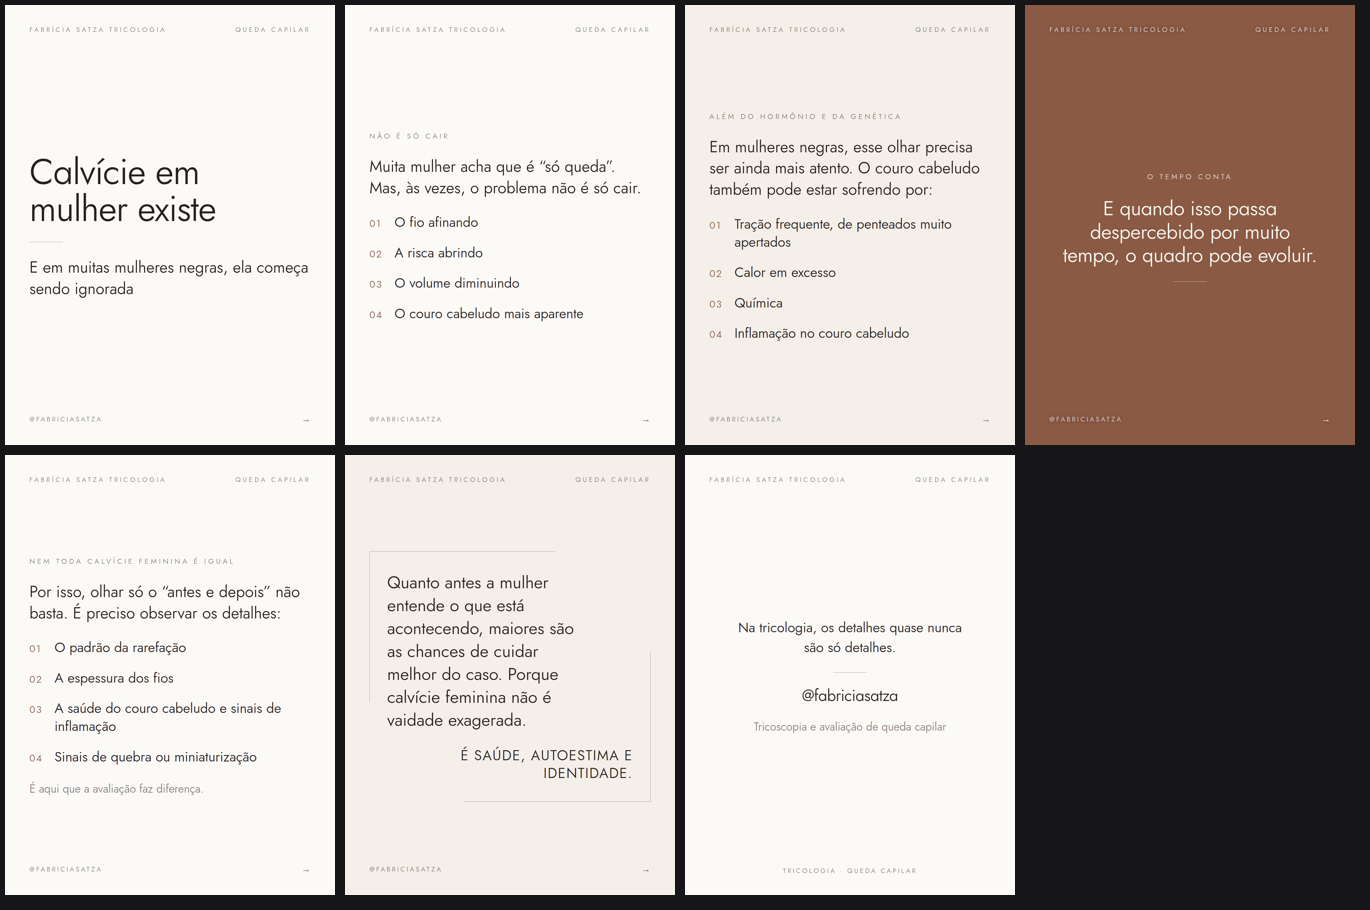
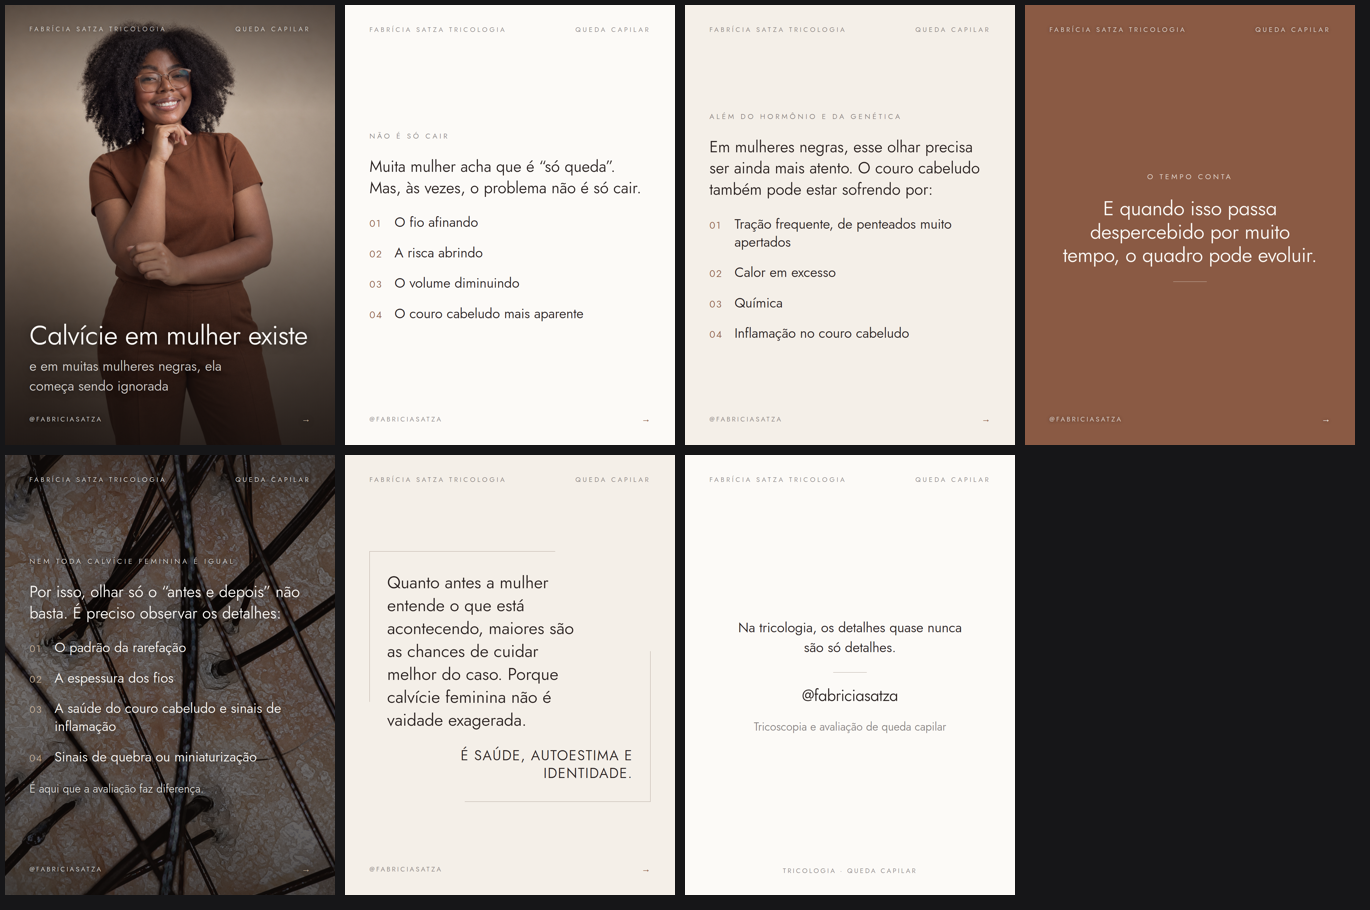
Tricoscopia no fundo do slide 05, e o bloco de foto ganha modo "slide inteiro"
O bloco sobre-foto nasceu para UMA frase ancorada no rodape. Com o slide
inteiro sobre a imagem — rotulo, abertura, lista numerada, nota — tres
coisas quebravam ao mesmo tempo: o corpo continuava colado embaixo, e
rotulo, texto pequeno e numero da lista seguiam nas cores de fundo claro,
invisiveis sobre a foto. Entra .corpo.cheio e as tres correcoes de cor em
blocos.css, com o numero em champagne, que e o acento das superficies
escuras.

Contraste medido renderizando o fundo SEM texto (medir com o texto na frente
mede branco contra branco). Em veu .54 o rotulo de 24px dava 3,68:1. Veu a
.60 no meio e secundarios a .90 levam tudo ao minimo: cabecalho 6,66,
rotulo 4,77, abertura 5,45, itens 5,43, nota 5,16, rodape 6,23.

Recorte da tricoscopia deslocado para baixo, para o feed nao repetir o mesmo
enquadramento da mesma captura ja usada na peca do "desver".

Claude-Session: https://claude.ai/code/session_01DL9VyhWUWZtPxmDSzgTccC

Changed region(s): [[0.0, 0.0, 0.2453, 0.9846]]

diff --git a/carrossel-calvicie-feminina.html b/carrossel-calvicie-feminina.html
@@ -354,6 +354,26 @@ em,i,.destaque{font-style:normal;color:var(--terracota-esc)}
 .observa-t{font-size:35px;line-height:1.32;color:var(--forte)}
 .observa-t i{font-style:normal;color:var(--suave)}
 
+/* ── SLIDE DE CONTEUDO INTEIRO SOBRE FOTO ────────────────────────────────
+   O bloco de foto nasceu para UMA frase ancorada no rodape. Quando o slide
+   inteiro vive sobre a imagem — rotulo, texto de abertura, lista numerada —
+   tres coisas quebram de uma vez:
+
+     1. o corpo continua colado embaixo (justify-content:flex-end)
+     2. rotulo e texto pequeno seguem em --suave, que e cor de fundo claro:
+        cinza-escuro sobre a foto, ou seja, invisivel
+     3. o numero da lista segue em terracota escuro, que sobre veu some
+
+   .corpo.cheio resolve o primeiro; os tres seletores abaixo resolvem o resto.
+   Sobre veu o acento e champagne, o mesmo que vale nas superficies escuras. */
+.sobre-foto .corpo.cheio{justify-content:center}
+/* .90, nao .82: medido sobre tricoscopia, o rotulo de 24px batia 3,7:1 em
+   .82 — o veu ja fez a parte dele e o resto tem de vir da tinta. */
+.sobre-foto .rotulo,.sobre-foto .texto-sm{color:rgba(252,250,247,.90);
+       text-shadow:0 1px 3px rgba(0,0,0,.5),0 2px 18px rgba(0,0,0,.6)}
+.sobre-foto .item-n{color:var(--champagne)}
+.sobre-foto .item-t{text-shadow:0 2px 22px rgba(0,0,0,.5)}
+
 </style>
 </head>
 <body>
@@ -417,11 +437,15 @@ em,i,.destaque{font-style:normal;color:var(--terracota-esc)}
   <div class="rod"><span>@fabriciasatza</span><span class="segue">&#8594;</span></div>
 </section>
 
-<!-- 05 ▸ LISTA — o que se observa. Inflamacao entrou junto com a saude do couro:
-     e onde ela e vista, nao um item separado. -->
-<section class="slide">
+<!-- 05 ▸ LISTA SOBRE A TRICOSCOPIA — e o slide que fala em observar detalhes,
+     entao o fundo mostra o detalhe. Corpo .cheio para centralizar em vez de
+     colar no rodape; veu quase uniforme, porque aqui o texto ocupa a peca
+     toda e nao so a faixa de baixo. -->
+<section class="slide sobre-foto">
+  <img class="foto" src="fotos-calvicie/tricoscopia-detalhes.jpg" alt="">
+  <div class="veu" style="background:linear-gradient(to bottom,rgba(18,13,11,.72) 0%,rgba(18,13,11,.61) 18%,rgba(18,13,11,.60) 50%,rgba(18,13,11,.63) 82%,rgba(18,13,11,.74) 100%)"></div>
   <div class="cab"><span>Fabrícia Satza Tricologia</span><span>Queda capilar</span></div>
-  <div class="corpo">
+  <div class="corpo cheio">
     <div class="rotulo">Nem toda calvície feminina é igual</div>
     <div class="subtitulo">Por isso, olhar só o &ldquo;antes e depois&rdquo; não basta. É preciso observar os detalhes:</div>
     <div class="lista">

diff --git a/.claude/skills/fabricia-satza-tricologia/assets/antes-depois.html b/.claude/skills/fabricia-satza-tricologia/assets/antes-depois.html
@@ -354,6 +354,26 @@ em,i,.destaque{font-style:normal;color:var(--terracota-esc)}
 .observa-t{font-size:35px;line-height:1.32;color:var(--forte)}
 .observa-t i{font-style:normal;color:var(--suave)}
 
+/* ── SLIDE DE CONTEUDO INTEIRO SOBRE FOTO ────────────────────────────────
+   O bloco de foto nasceu para UMA frase ancorada no rodape. Quando o slide
+   inteiro vive sobre a imagem — rotulo, texto de abertura, lista numerada —
+   tres coisas quebram de uma vez:
+
+     1. o corpo continua colado embaixo (justify-content:flex-end)
+     2. rotulo e texto pequeno seguem em --suave, que e cor de fundo claro:
+        cinza-escuro sobre a foto, ou seja, invisivel
+     3. o numero da lista segue em terracota escuro, que sobre veu some
+
+   .corpo.cheio resolve o primeiro; os tres seletores abaixo resolvem o resto.
+   Sobre veu o acento e champagne, o mesmo que vale nas superficies escuras. */
+.sobre-foto .corpo.cheio{justify-content:center}
+/* .90, nao .82: medido sobre tricoscopia, o rotulo de 24px batia 3,7:1 em
+   .82 — o veu ja fez a parte dele e o resto tem de vir da tinta. */
+.sobre-foto .rotulo,.sobre-foto .texto-sm{color:rgba(252,250,247,.90);
+       text-shadow:0 1px 3px rgba(0,0,0,.5),0 2px 18px rgba(0,0,0,.6)}
+.sobre-foto .item-n{color:var(--champagne)}
+.sobre-foto .item-t{text-shadow:0 2px 22px rgba(0,0,0,.5)}
+
 /* ══ ANTES / DEPOIS ═══════════════════════════════════════════════════════
    A seta branca e o clichê do nicho e ainda por cima tapa justamente o que a
    pessoa precisa ver. Aqui o marcador e um anel fino com uma haste vertical

diff --git a/.claude/skills/fabricia-satza-tricologia/assets/carrossel.html b/.claude/skills/fabricia-satza-tricologia/assets/carrossel.html
@@ -354,6 +354,26 @@ em,i,.destaque{font-style:normal;color:var(--terracota-esc)}
 .observa-t{font-size:35px;line-height:1.32;color:var(--forte)}
 .observa-t i{font-style:normal;color:var(--suave)}
 
+/* ── SLIDE DE CONTEUDO INTEIRO SOBRE FOTO ────────────────────────────────
+   O bloco de foto nasceu para UMA frase ancorada no rodape. Quando o slide
+   inteiro vive sobre a imagem — rotulo, texto de abertura, lista numerada —
+   tres coisas quebram de uma vez:
+
+     1. o corpo continua colado embaixo (justify-content:flex-end)
+     2. rotulo e texto pequeno seguem em --suave, que e cor de fundo claro:
+        cinza-escuro sobre a foto, ou seja, invisivel
+     3. o numero da lista segue em terracota escuro, que sobre veu some
+
+   .corpo.cheio resolve o primeiro; os tres seletores abaixo resolvem o resto.
+   Sobre veu o acento e champagne, o mesmo que vale nas superficies escuras. */
+.sobre-foto .corpo.cheio{justify-content:center}
+/* .90, nao .82: medido sobre tricoscopia, o rotulo de 24px batia 3,7:1 em
+   .82 — o veu ja fez a parte dele e o resto tem de vir da tinta. */
+.sobre-foto .rotulo,.sobre-foto .texto-sm{color:rgba(252,250,247,.90);
+       text-shadow:0 1px 3px rgba(0,0,0,.5),0 2px 18px rgba(0,0,0,.6)}
+.sobre-foto .item-n{color:var(--champagne)}
+.sobre-foto .item-t{text-shadow:0 2px 22px rgba(0,0,0,.5)}
+
 </style>
 </head>
 <body>

diff --git a/.claude/skills/fabricia-satza-tricologia/scripts/blocos.css b/.claude/skills/fabricia-satza-tricologia/scripts/blocos.css
@@ -186,3 +186,23 @@
 .observa-n{font-size:25px;color:var(--terracota-esc);flex-shrink:0;min-width:34px}
 .observa-t{font-size:35px;line-height:1.32;color:var(--forte)}
 .observa-t i{font-style:normal;color:var(--suave)}
+
+/* ── SLIDE DE CONTEUDO INTEIRO SOBRE FOTO ────────────────────────────────
+   O bloco de foto nasceu para UMA frase ancorada no rodape. Quando o slide
+   inteiro vive sobre a imagem — rotulo, texto de abertura, lista numerada —
+   tres coisas quebram de uma vez:
+
+     1. o corpo continua colado embaixo (justify-content:flex-end)
+     2. rotulo e texto pequeno seguem em --suave, que e cor de fundo claro:
+        cinza-escuro sobre a foto, ou seja, invisivel
+     3. o numero da lista segue em terracota escuro, que sobre veu some
+
+   .corpo.cheio resolve o primeiro; os tres seletores abaixo resolvem o resto.
+   Sobre veu o acento e champagne, o mesmo que vale nas superficies escuras. */
+.sobre-foto .corpo.cheio{justify-content:center}
+/* .90, nao .82: medido sobre tricoscopia, o rotulo de 24px batia 3,7:1 em
+   .82 — o veu ja fez a parte dele e o resto tem de vir da tinta. */
+.sobre-foto .rotulo,.sobre-foto .texto-sm{color:rgba(252,250,247,.90);
+       text-shadow:0 1px 3px rgba(0,0,0,.5),0 2px 18px rgba(0,0,0,.6)}
+.sobre-foto .item-n{color:var(--champagne)}
+.sobre-foto .item-t{text-shadow:0 2px 22px rgba(0,0,0,.5)}
